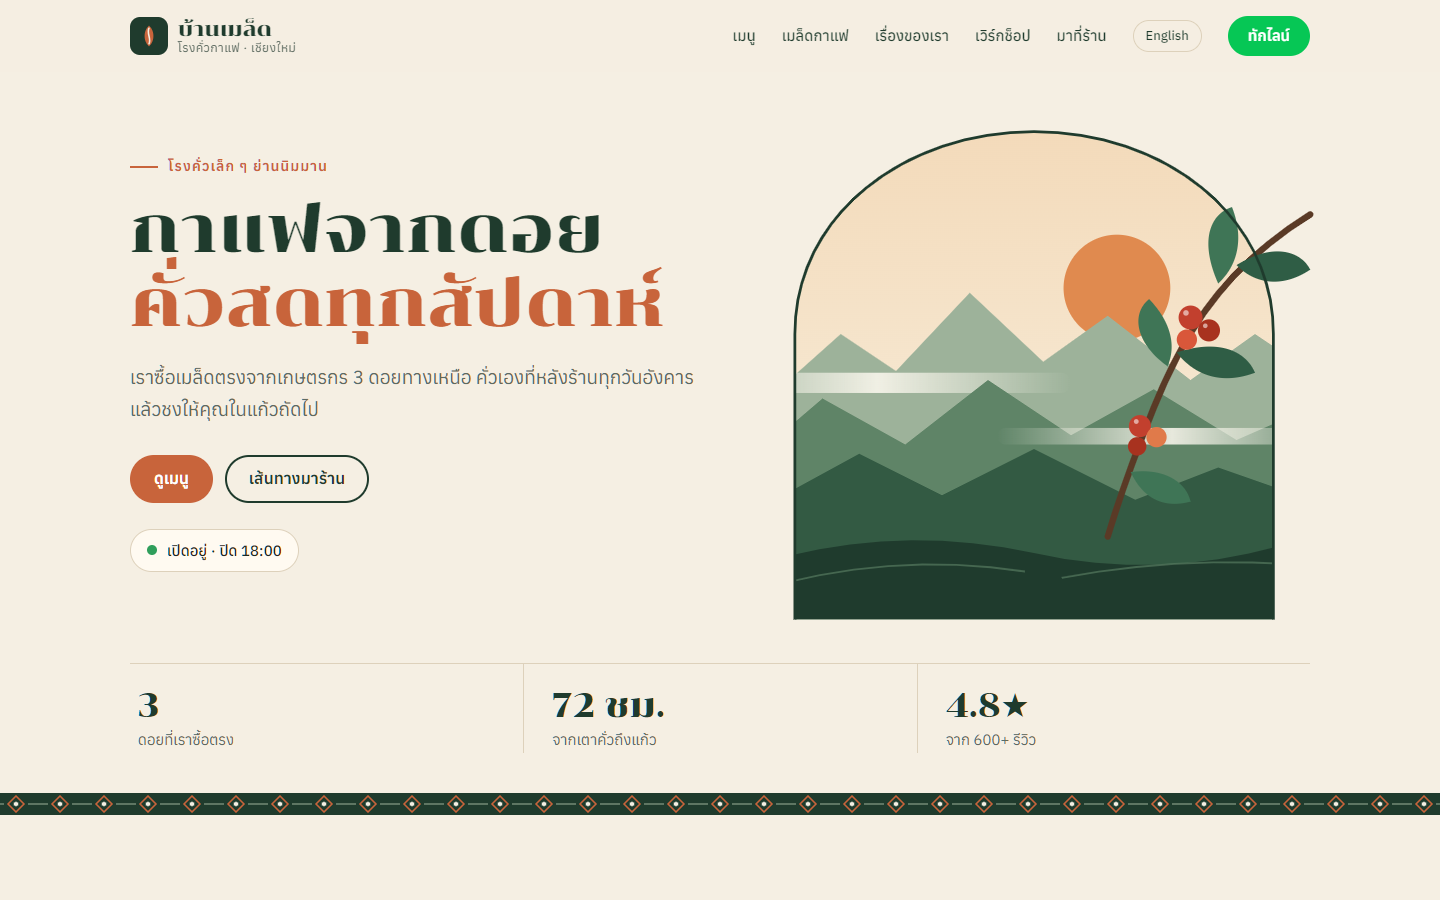
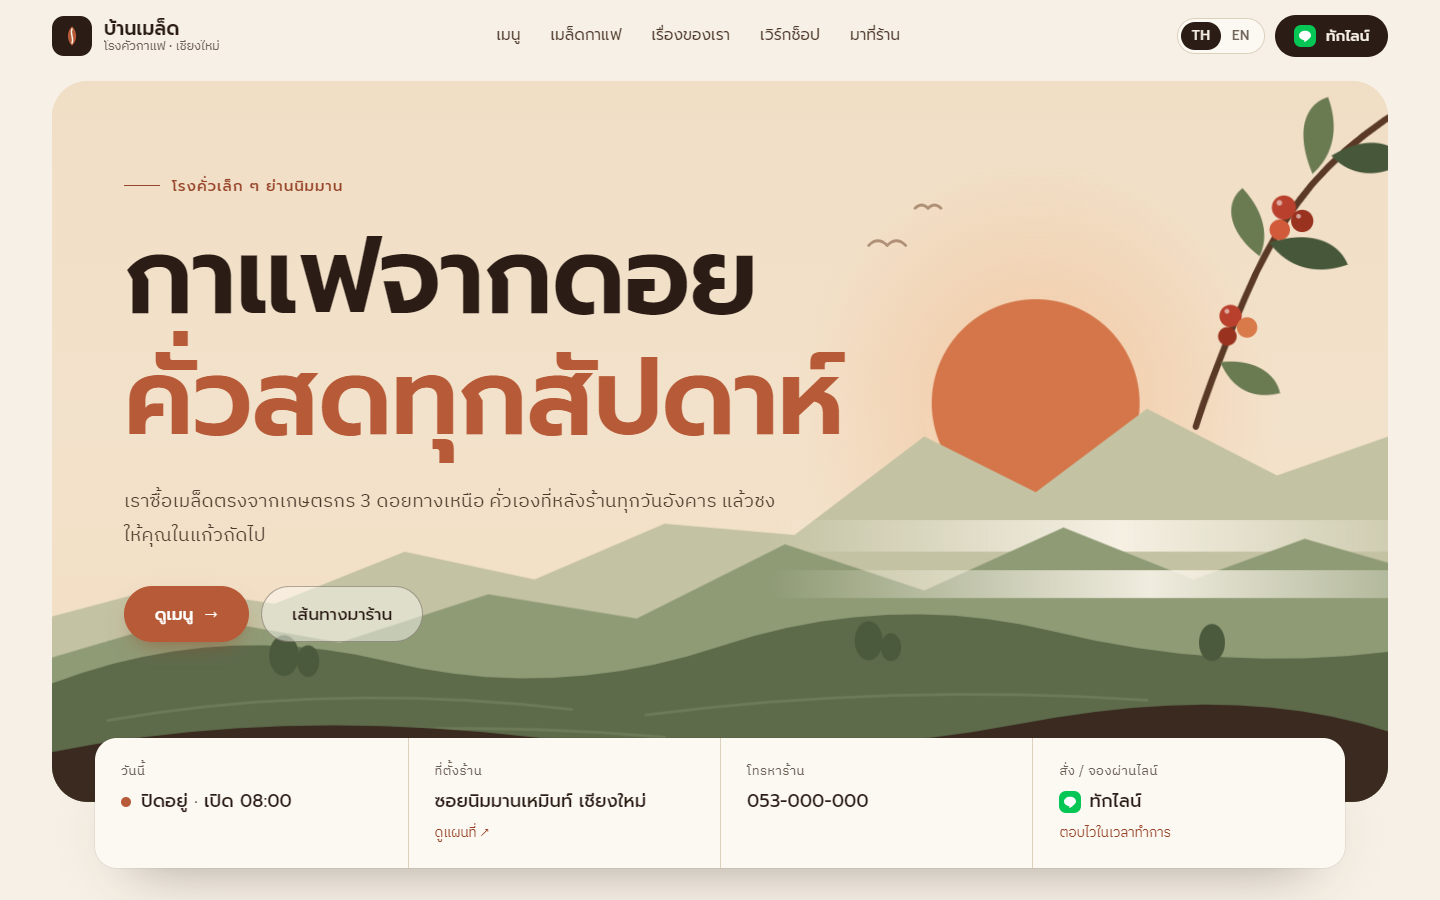
docs: refresh README screenshot and feature notes

diff --git a/README.md b/README.md
@@ -9,9 +9,10 @@
 
 ## จุดเด่น
 
-- ออกแบบเฉพาะ: ภาพประกอบ SVG วาดเอง ลายแถบแรงบันดาลใจจากล้านนา ฟอนต์ Chonburi + Anuphan
+- ออกแบบเฉพาะ: ภาพประกอบ SVG วาดเอง ลายแถบแรงบันดาลใจจากล้านนา ฟอนต์ Prompt + IBM Plex Sans Thai (หัวข้อภาษาอังกฤษใช้ Fraunces)
 - **ป้ายเปิด/ปิดอัตโนมัติ** ตามเวลาไทย และไฮไลต์วันนี้ในตารางเวลาเปิด
-- เมนูกรองตามหมวด, เมล็ดกาแฟพร้อมระดับคั่วและโน้ตรสชาติ
+- ดีไซน์แนว editorial: ฮีโร่ภาพทิวเขาเต็มกว้าง แถบข้อมูลด่วน (เปิดอยู่ไหม · ที่ตั้ง · โทร · LINE) ใต้ฮีโร่ หัวข้อส่วนแบบมีลำดับเลข
+- เมนูกรองตามหมวด พร้อมการ์ดแก้วขายดี, เมล็ดกาแฟพร้อมระดับคั่วและโน้ตรสชาติ
 - **ปุ่ม LINE ส่งข้อความที่เตรียมไว้ให้** (เช่น "สนใจสั่งเมล็ด ดอยช้าง 200 กรัม") ลดขั้นตอนลูกค้า
 - แผนที่ Google โหลดเมื่อแตะเท่านั้น (หน้าเว็บเร็วขึ้น ไม่มีคุกกี้บุคคลที่สามก่อนผู้ใช้ยินยอม)
 - แถบปุ่มลัดบนมือถือ: โทร / LINE / นำทาง
